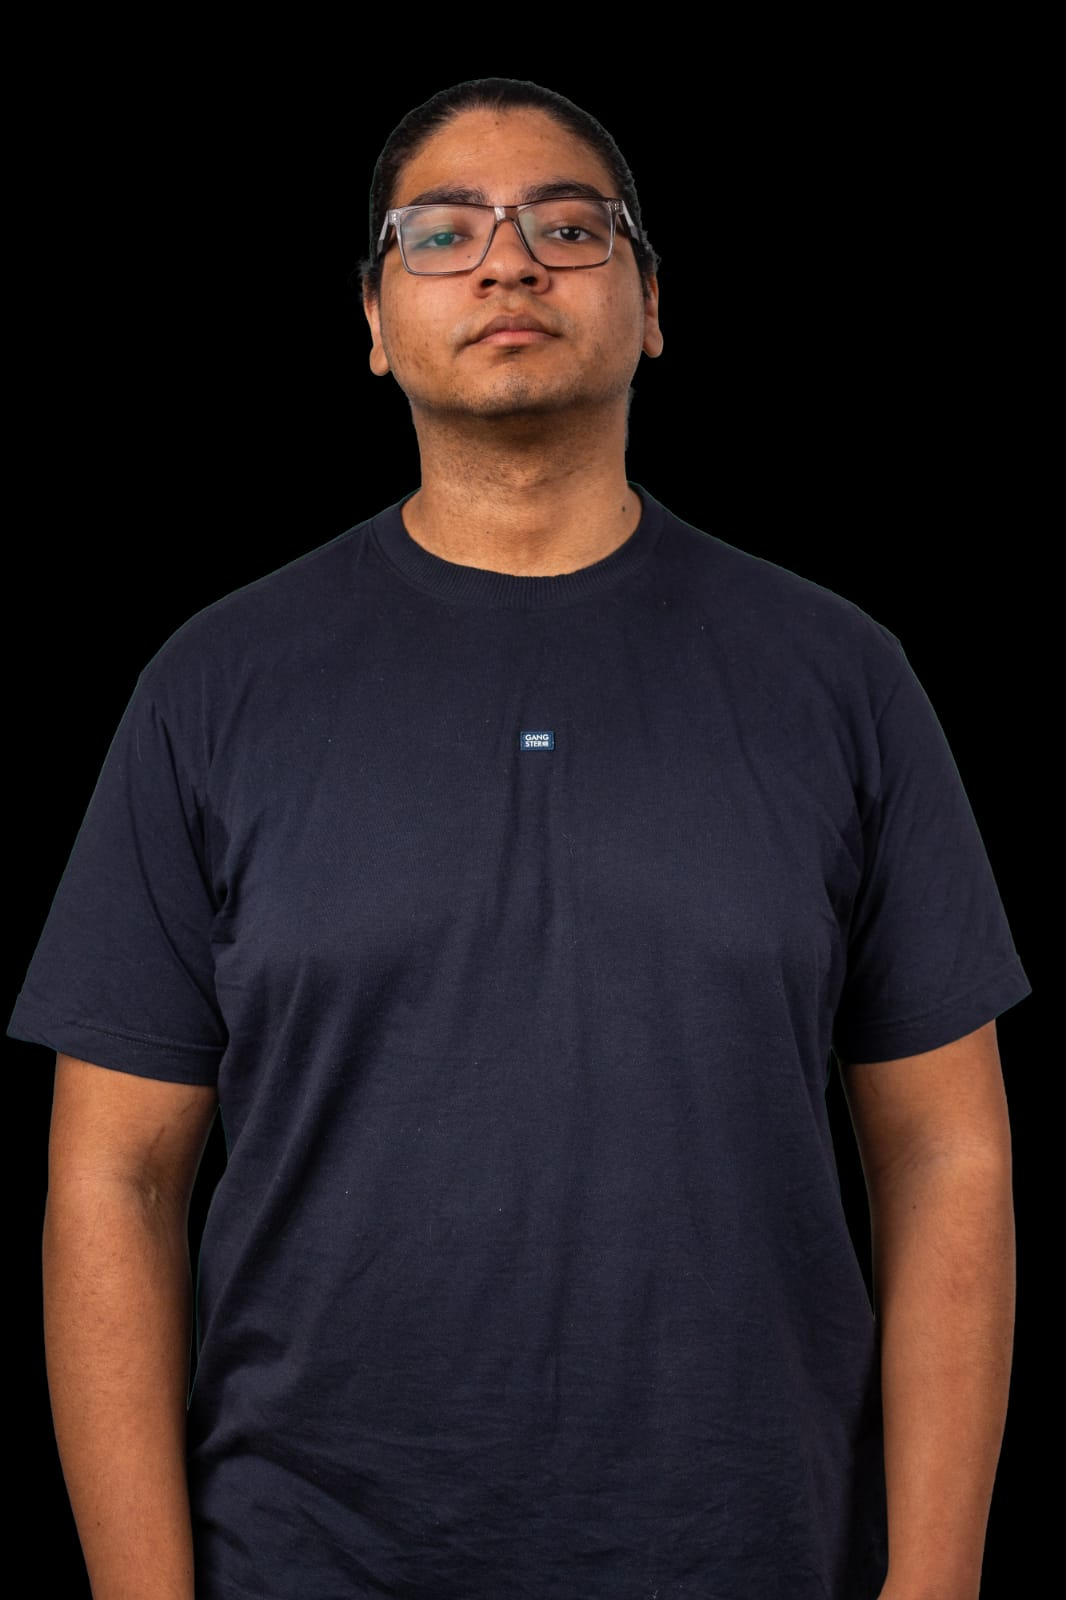
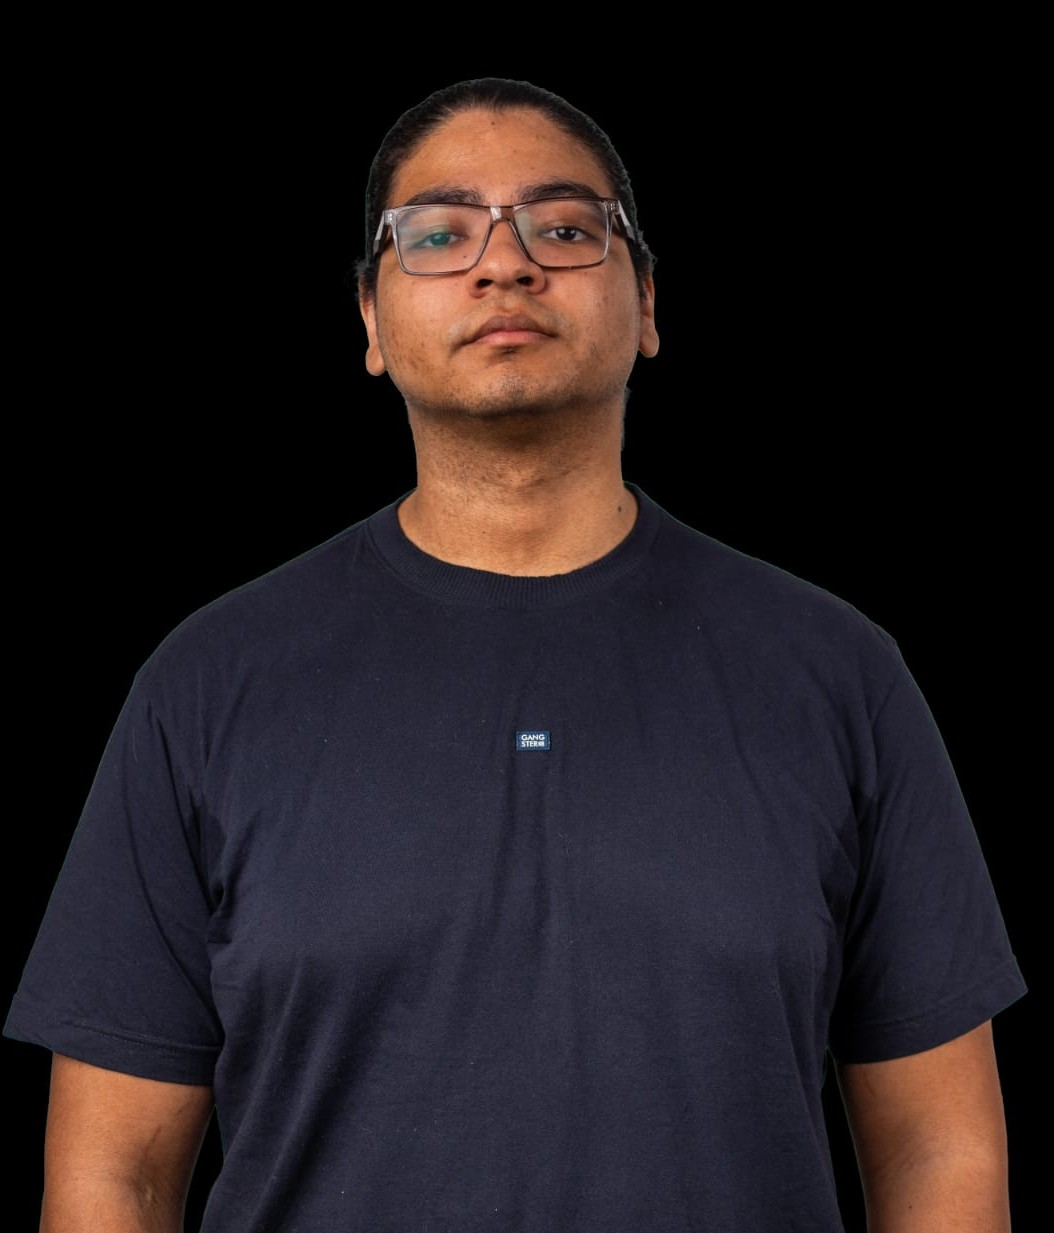
todos os cards com fotos

diff --git a/index.html b/index.html
@@ -61,7 +61,7 @@
             </h2>
             <div class="estudantes">
                 <div class="integrantes">
-                    <img class="icone" src="Estudantes/">
+                    <img class="icone" src="Estudantes/Andre Cornely.jpeg">
 
                     <p class="nome">André Oliveira Cornely</p>
 
@@ -79,9 +79,9 @@
                     </p>
                 </div>
                 <div class="integrantes">
-                    <img class="icone" src="Estudantes/">
+                    <img class="icone" src="Estudantes/Érick Fernandes.png">
 
-                    <p class="nome">Érick</p>
+                    <p class="nome">Érick Fernandes</p>
 
                     <p class="frase">
                         “Exemplo de frase de cada estudante”
